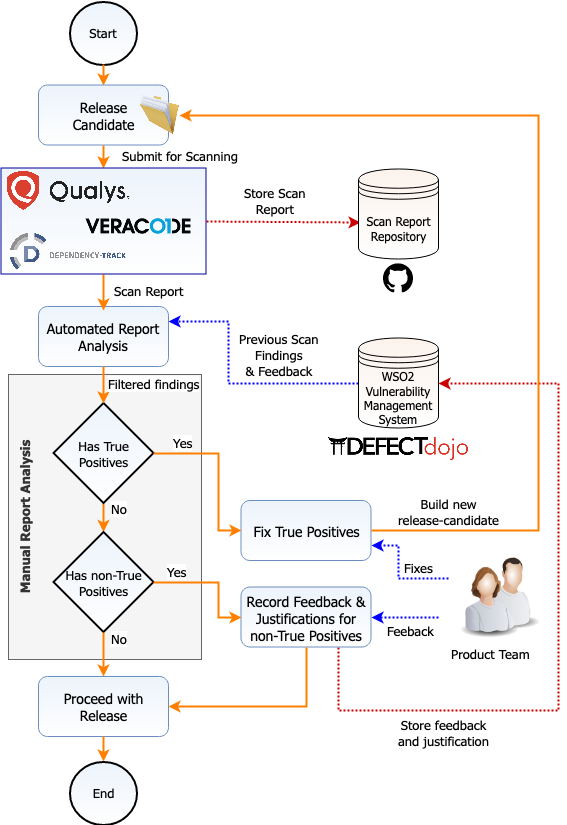
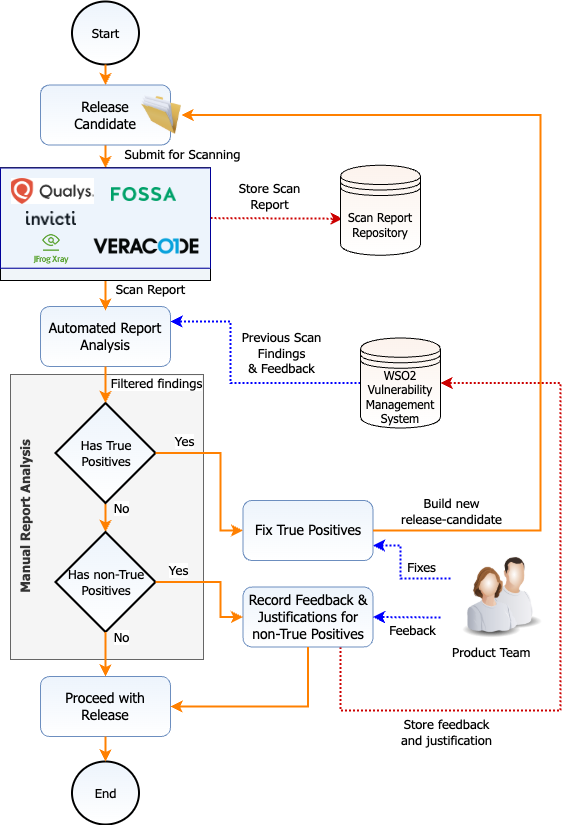
Update SSDLC to show new scanners introduced

diff --git a/en/docs/security-processes/secure-software-development-process.md b/en/docs/security-processes/secure-software-development-process.md
@@ -9,7 +9,7 @@ version: 2.2
 
 Security is not an afterthought at WSO2. It's an integral part of each phase in the development life cycle. This makes sure security vulnerabilities are identified and mitigated as early as possible.
 
-![secure-software-development-process](../assets/images/product-security/secure-software-development-process-overall-7.png)
+![secure-software-development-process](../assets/images/product-security/secure-software-development-process-overall-v2.png)
 
 
 [WSO2 Secure Engineering Guidelines](../security-guidelines/index.md) provide the overall security guidance during the design, development and code review phases. A group of security leads review designs of new features and also review the code to make sure that engineers are adhering to the guidelines set forth. Some security checks are further enforced when engineers commit the code to the WSO2-maintained code repositories. 
@@ -22,7 +22,7 @@ This document further explains, each individual phase of this overall process, c
 
 New feature developments and modifications to the existing features must go through thorough design reviews that evaluate the security aspects of the corresponding component. 
 
-The software architects and security leads of the respective product domains must attend to these reviews. Following are some questions that are taken into consideration during these reviews: 
+The software architects and security leads of the respective product domains must attend to these reviews. Formal threat modeling using STRIDE-LM methodology is followed for selected features. Following are some questions that are taken into consideration during these reviews: 
 
 * What are the interactions with other components in the system and how do those interactions happen?
 * What are the access and trust boundaries of the component?
@@ -98,7 +98,7 @@ Static Code Analysis is used to identify possible vulnerabilities within source 
 
 Apart from the [Find Security Bugs](https://find-sec-bugs.github.io/) Spotbugs plugin which is used in the development phase, WSO2 uses the [Veracode](https://www.veracode.com/products/binary-static-analysis-sast) commercial static analyzer for this purpose.
 
-WSO2 uses the [Trivy](https://aquasecurity.github.io/trivy/), Open-source image scanner for finding OS level vulnerabilities in WSO2 docker images.
+WSO2 uses the [Trivy](https://aquasecurity.github.io/trivy/) Open-source image scanner for finding OS level vulnerabilities in WSO2 docker images.
 
 !!! note
     The security issues relevant to the third-party dependencies are covered separately with the [Third-Party Dependency Analysis](#third-party-dependency-analysis) effort. Therefore, the source code of the third-party dependencies is excluded from the static code analysis.
@@ -106,22 +106,23 @@ WSO2 uses the [Trivy](https://aquasecurity.github.io/trivy/), Open-source image 
 #### Dynamic Analysis 
 Dynamic Analysis is used to search for software vulnerabilities when the code is in operation mode. The analysis is performed when the application is running.
 
-[WSO2 uses Qualys Web Application Scanner (Qualys WAS)](https://www.qualys.com/apps/web-app-scanning/) for dynamic security scanning.
+WSO2 uses [Qualys Web Application Scanner (Qualys WAS)](https://www.qualys.com/apps/web-app-scanning/), [Invicti](https://www.invicti.com/web-vulnerability-scanner/) and [Burp Suite Professional](https://portswigger.net/burp/pro) for dynamic security scanning.
 
 #### Third-Party Dependency Analysis
 Security vulnerabilities identified in third-party dependencies may affect the security of the product. WSO2 prevent such security impacts that could occur due to third-party dependencies at a few stages.  
 
 It is essential to prevent the introduction of new third-party dependencies with known security vulnerabilities. Therefore, with any _third-party dependency approval request_ it is essential to attach the [OWASP Dependency Check](https://owasp.org/www-project-dependency-check/) report, adhering to the **[Introducing New External Dependencies]({{#base_path#}}/security-guidelines/secure-engineering-guidelines/secure-coding-guidlines/general-recommendations-for-secure-coding/#introducing-new-external-dependencies)** section of the [WSO2 Secure Coding Guidelines]({{#base_path#}}/security-guidelines/secure-engineering-guidelines/secure-coding-guidlines/introduction/). 
 
-New security vulnerabilities related to third-party dependencies may get identified and fixed at any given time. Therefore, continuously monitor different sources to identify if a new vulnerability has been identified or fixed. 
+New security vulnerabilities related to third-party dependencies may get identified and fixed at any given time. Therefore, continuously monitor different sources to identify if a new vulnerability has been identified or fixed. WSO2 uses the following tools for this analysis: 
+- [FOSSA](https://fossa.com/) for scanning product distributions and application dependencies in cloud pipelines
+- [JFrog Xray](https://jfrog.com/xray/) for scanning product container images
+- [Trivy](https://trivy.dev/) for scanning container images in cloud pipelines
 
-WSO2 uses the [OWASP Dependency Track](https://owasp.org/www-project-dependency-track/) for this purpose with product versions released after Q1 2020. The [National Vulnerability Database (NVD)](https://nvd.nist.gov/vuln) is queried for third-party dependency issues and alerts will be generated if a new issue has been identified. It is required to update the dependency or add a mitigation comment explaining why the relevant vulnerability does not apply to the product.
+The [National Vulnerability Database (NVD)](https://nvd.nist.gov/vuln) and other proprietary databases maintained by the mentioned scanner vendors are queried for third-party dependency issues and alerts will be generated if a new issue has been identified. It is required to update the dependency. When updating the dependency is not an option due to any major complications a [CVE Justification](../security-announcements/cve-justifications/index.md) should be published explaining why the relevant vulnerability does not negatively affect security of the products. Such justification should explain the complications related to the update process requiring such justification to be published.
 
 #### Mandatory checks during releases
 
 ![release-process-sec-checks](../assets/images/product-security/release-process-sec-checks.png)
-
-To request a security scan (Veracode, Qualys or Dependency Track), product teams create an issue in the internal security GitHub project, attach the related product pack, and send an email notification to <security-leads-group@wso2.com>, with a reference to the corresponding GitHub issue. 
 
 Even though security scans can be scheduled at any time, based on the requests from the product teams, it is mandatory to perform all three scan types (static scan, dynamic scan, third-party dependency scan) before a product release. This involves the following:
 
@@ -131,13 +132,11 @@ Even though security scans can be scheduled at any time, based on the requests f
     - Details about the use case of the relevant logic
     - Details about the impact of the reported issue
 * Fix all **true positive** issues identified
-* Rescan the product before the release vote, if complex changes have occurred between the initial security scan and the actual release vote, preventing manual verification of security fixes.
-
-If any of the aforementioned items are not complete, Platform Security Team will down vote the release, preventing the product from getting released.
+* Re-scan the product before the release vote, if complex changes have occurred between the initial security scan and the actual release vote, preventing manual verification of security fixes.
 
 
 ### Vulnerability Management
 
-All issues reported by static code analyzers, dynamic scanners and dependency scans will be uploaded into a centralized Vulnerability Management System (VMS). WSO2 uses [OWASP Defect Dojo](https://owasp.org/www-project-defectdojo/) as the centralized VMS. 
+All issues reported by static code analyzers, dynamic scanners and dependency scans will be uploaded into a centralized Vulnerability Management System (VMS).
 
 This centralized VMS can be used to identify duplicates in future reports and also to automatically provide feedback for security scan reports sent by WSO2 customers, largely reducing the manual effort required in analyzing security reports.
